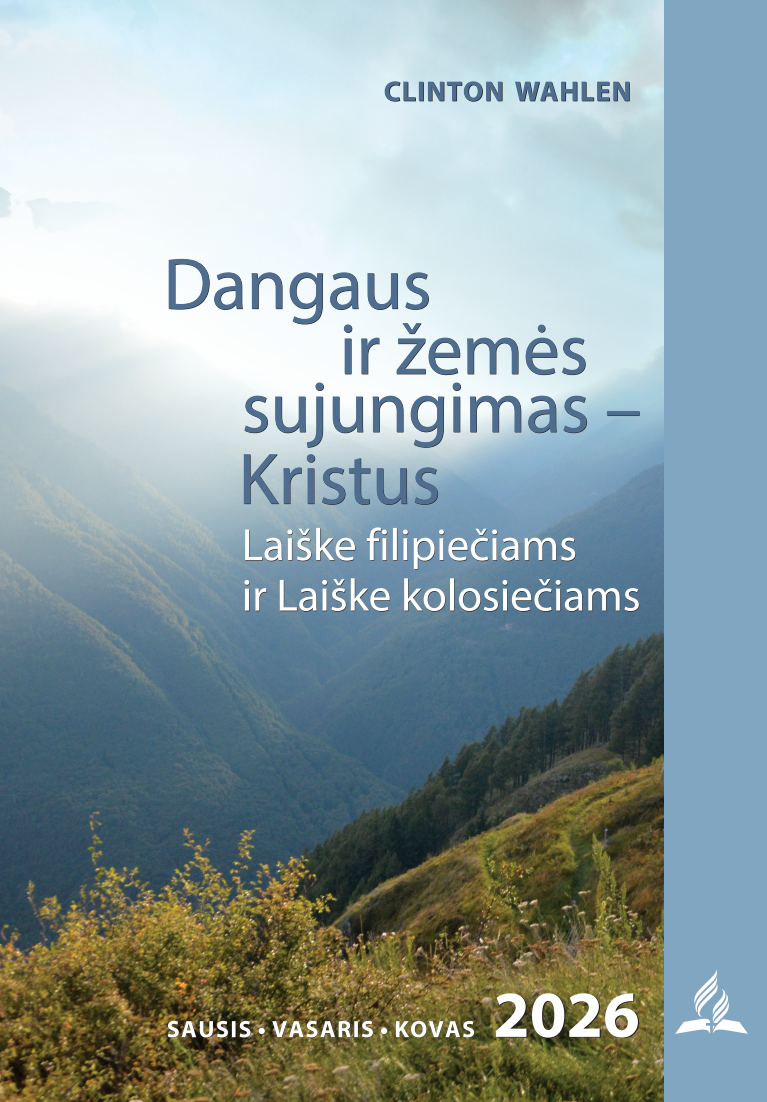
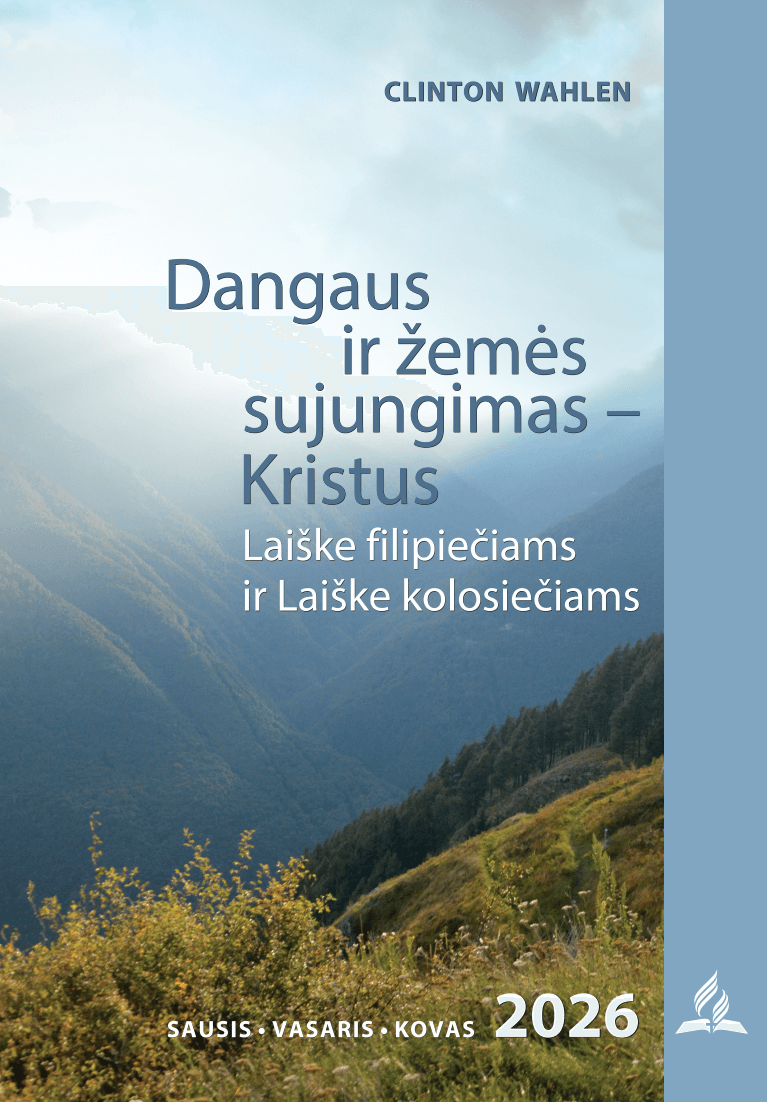
Add splash, compress cover, fix introduction

Changed region(s): [[0.09, 0.2468, 0.5398, 0.3702]]

diff --git a/src/lt/2026-01/introduction.md b/src/lt/2026-01/introduction.md
@@ -1,0 +1,17 @@
+### Dangaus ir žemės sujungimas
+
+Pagalvokite apie sunkiausią jums tekusį darbą. Kas jį apsunkino? Ar lūkesčiai, ar darbui skirtas laikas, gal ir viena, ir kita? Galbūt jūsų nusistatymas užduoties atžvilgiu? Galbūt žmonės, su kuriais bendradarbiavote? Gal tiesiog atrodė, kad nepavyks?
+
+Pagalvokite apie išganymo plano tikslą  sujungti dangų ir žemę. Atrodo neįmanoma? Žmogiškai kalbant  taip. Nepaisant to, prieš pat įžengdamas į dangų, Jėzus apaštalams davė, atrodė, neįmanomą užduotį: Tad eikite ir padarykite Mano mokiniais visų tautų žmones, krikštydami juos vardan Tėvo ir Sūnaus, ir Šventosios Dvasios, mokydami laikytis visko, ką tik esu jums įsakęs (Mt 28, 1920). Jėzus siuntė Paulių pas pagonis atlikti šią, atrodė, neįmanomą užduotį: Kad atvertum jų akis ir jie iš tamsybių gręžtųsi į šviesą, nuo šėtono galybės  į Dievą ir, tikėdami Mane, gautų nuodėmių atleidimą bei dalį su pašventintaisiais (Apd 26, 18).
+
+Kai kurie gali nuleisti rankas, gavę tokią užduotį. Tačiau neturėtume pamiršti Jėzaus pažadų, duotų abiems šiems atvejams. Apaštalams Jis pridūrė: Ir štai Aš esu su jumis per visas dienas iki pasaulio pabaigos (Mt 28, 20). O Pauliui Jėzus pasakė: Aš tau apsireiškiau, kad paskirčiau tave tarnu bei liudytoju tų dalykų, kuriuos matei ir kuriuos tau dar apreikšiu (Apd 26, 16).
+
+Trumpai tariant, Jėzus paveda žmogiškai neįmanomas užduotis, kad jas vykdydami pasikliautume Juo, o ne savimi. Jis neskiria mums darbo nesuteikdamas jėgų jam atlikti. Kai žmogaus valia bendradarbiauja su Dievo valia, ji tampa visagalė. Viskas, kas turi būti padaryta Jo įsakymu, gali būti įvykdyta Jo jėga. Visi Jo paliepimai yra įgalinimai (E. Vait, Paslėpti lobiai, p. 333).
+
+Nuostabu tai, kad iki to laiko, kai Paulius parašė Laišką kolosiečiams, Evangelija jau buvo paskelbta visai Kūrinijai po dangumi (Kol 1, 23). Žinoma, ne visi ją priėmė. Tačiau atidžiai pažvelgus į Jo pavedimus apaštalams (Mt 28, 1820), ir apaštalui Pauliui, Jėzus niekada nežadėjo, kad visi taps mokiniais ar visi atsivers. Evangelija turi būti paskelbta visame pasaulyje paliudyti visoms tautoms. Ir tada ateis galas (Mt 24, 14). Kaip atrodo šis paliudijimas? Kaip tiksliai jis turi būti įvykdytas?
+
+Šį ketvirtį tyrinėsime Pauliaus Laišką filipiečiams ir Laišką kolosiečiams. Jie turi svarbių panašumų. Svarbiausia, kad jie atskleidžia Kristų, vienintelį, galintį sujungti dangų ir žemę. Jis yra Jokūbo matyti laiptai nuo žemės iki dangaus (Pr 28, 12; Jn 1, 51). Kaip Žmogaus Sūnus ir Dievo Sūnus Jis atperka mus iš nuodėmės ir užtaria mus.
+
+Tyrinėdami šiuos laiškus pamatysime abi šias Jėzaus puses. Apsvarstysime kai kuriuos iš kilniausių teiginių apie Kristaus dieviškumą ir kaip Jis viską paaukojo, kad mus išgelbėtų. Pamatysime įkalintą Paulių, kovojusį su problemomis vienoje bendruomenėje, kurią jis įkūrė (Filipuose), ir kitoje, kurioje jis pats niekada nesilankė (Kolosuose). Pauliaus užmegzti ryšiai to meto pasaulinėje Bažnyčioje leido jam, net ir iš Romos kalėjimo, reaguoti į iššūkius. Jis žinojo, kad jo laikas trumpas, ir jis darė viską, ką galėjo, kad priartintų Bažnyčią prie dangaus, o narius  vieną prie kito. Taip jis parodė mums, kaip Dievo Bažnyčia šiandien gali susivienyti su dangumi, kad įvykdytų Apreiškimo 14 paskutiniųjų dienų pavedimą, kurį mes žinome kaip trijų angelų žinią.
+
+Mokslų daktaras Klintonas Valenas (Clintonas Wahlen) yra Generalinės konferencijos Biblijos tyrinėjimo instituto direktoriaus pavaduotojas. Jo specializacija  Naujasis Testamentas, hermeneutika ir adventistų istorija. Jis gyveno ir dirbo Vokietijoje, Naujojoje Zelandijoje, Rusijoje, Jungtinėje Karalystėje ir Filipinuose. Jis ir jo žmona Gina turi du suaugusius vaikus, marčią ir du anūkus.
